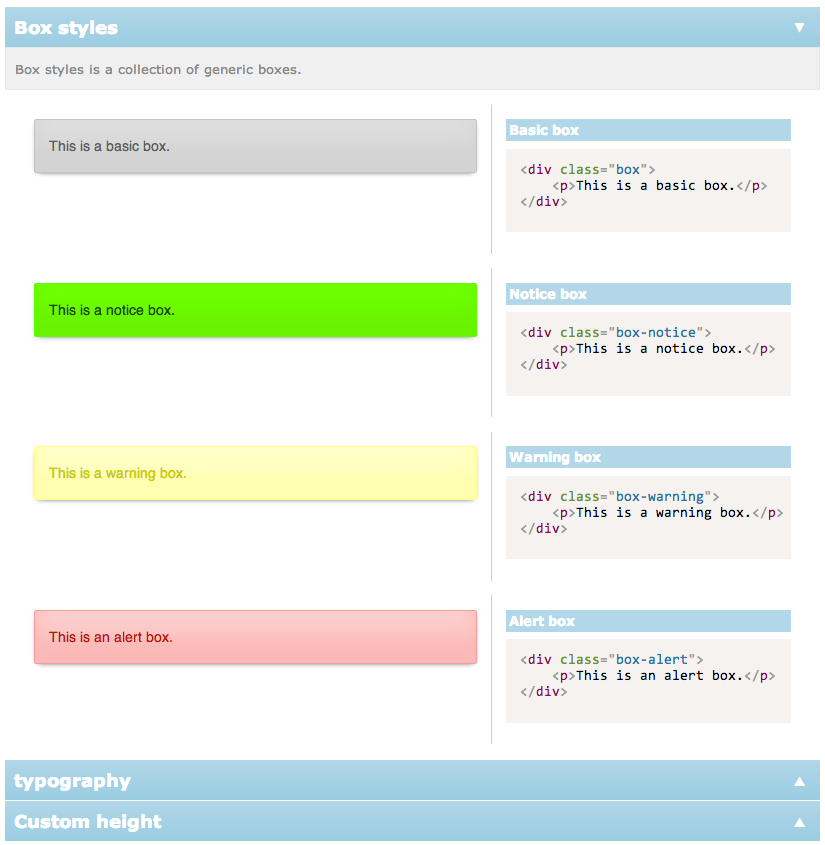
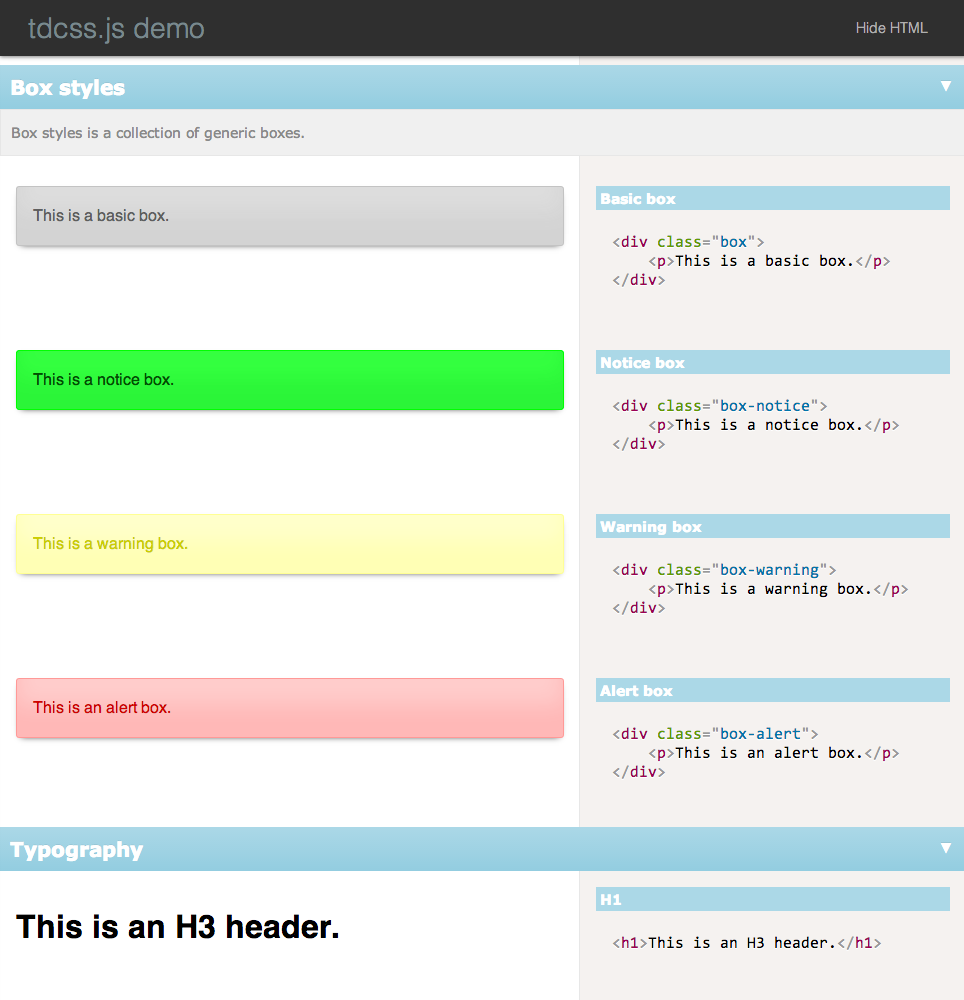
Updated version

diff --git a/demo/tdcss/tdcss.css b/demo/tdcss/tdcss.css
@@ -9,20 +9,7 @@ body {
     margin: 0;
 }
 
-.tdcss-fragments,
-.tdcss-elements,
-.tdcss-section,
-.tdcss-section .tdcss-h2,
-.tdcss-fragment,
-.tdcss-description,
-.tdcss-dom-example,
-.tdcss-code-example,
-.tdcss-dom-example,
-.tdcss-code-example,
-.tdcss-code-example .tdcss-h3,
-.tdcss-code-example .tdcss-textarea,
-.tdcss-control-bar,
-.tdcss-control-bar a {
+[class*='tdcss-'] {
     -webkit-box-sizing: border-box;
     -moz-box-sizing: border-box;
     -ms-box-sizing: border-box;
@@ -36,9 +23,25 @@ body {
 
 .tdcss-elements {
     position: relative;
-    top: 4em;
+    top: 3em;
     width: 100%;
-    padding: 1em;
+    padding-top: 1em;
+}
+
+.tdcss-elements:after {
+    position: absolute;
+    top: 0;
+    right: 0;
+    z-index: -1;
+    width: 40%;
+    height: 100%;
+    background-color: #f5f2f0;
+    border-left: 1px solid #e7e7e7;
+    content: '';
+}
+
+.tdcss-hide-html.tdcss-elements:after {
+    display: none;
 }
 
 .tdcss-section {
@@ -81,8 +84,8 @@ body {
 
 .tdcss-fragment {
     position: relative;
-    padding: 0 1em;
-    margin: 1em 0;
+    padding: 0;
+    margin: 0;
     overflow: hidden;
 }
 
@@ -100,7 +103,7 @@ body {
 
 .tdcss-diff-warning {
     position: fixed;
-    z-index: 200;
+    z-index: 10000;
     font-size: 12px;
 }
 
@@ -122,6 +125,7 @@ body {
     top: 0;
     left: 1em;
     z-index: 100;
+    pointer-events: none;
     opacity: 0.5;
 }
 
@@ -155,8 +159,6 @@ body {
     z-index: 1000;
     width: 40%;
     padding: 1em;
-    background-color: white;
-    border-left: 1px solid #add8e6;
 }
 
 .tdcss-hide-html .tdcss-code-example {
@@ -176,6 +178,7 @@ body {
 
 .tdcss-control-bar {
     position: fixed;
+    top: 0;
     z-index: 9999;
     display: table;
     width: 100%;
@@ -183,7 +186,7 @@ body {
     font-size: 14px;
     font-weight: 200;
     background-color: #2f2f2f;
-    box-shadow: 0 1px 5px gray;
+    box-shadow: 0 1px 5px rgba(0, 0, 0, 0.5);
 }
 
 .tdcss-title,

diff --git a/demo/tdcss/tdcss.js b/demo/tdcss/tdcss.js
@@ -1,4 +1,4 @@
-/* tdcss.js - v0.4.0 - 2013-08-14
+/* tdcss.js - v0.5.1 - 2013-10-07
  * http://jakobloekke.github.io/tdcss.js/
  * Copyright (c) 2013 Jakob Løkke Madsen;
  * License: MIT */
@@ -24,6 +24,7 @@
                     'href'
                 ],
                 hide_html: false,
+                neutralize_background: false,
                 control_bar_text: {
                     show_html: "Show HTML",
                     hide_html: "Hide HTML"
